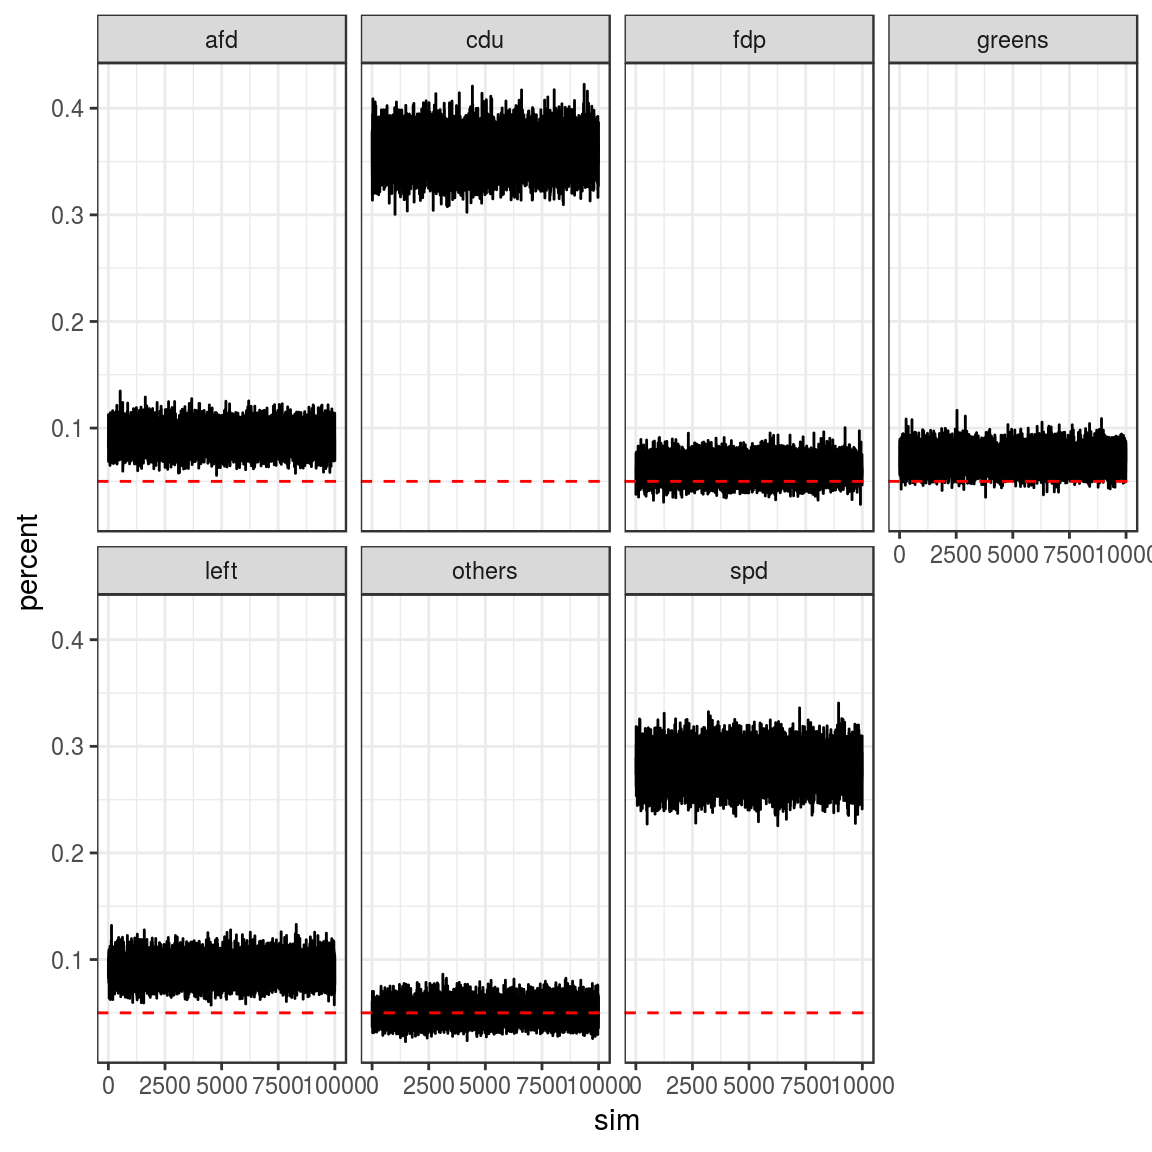
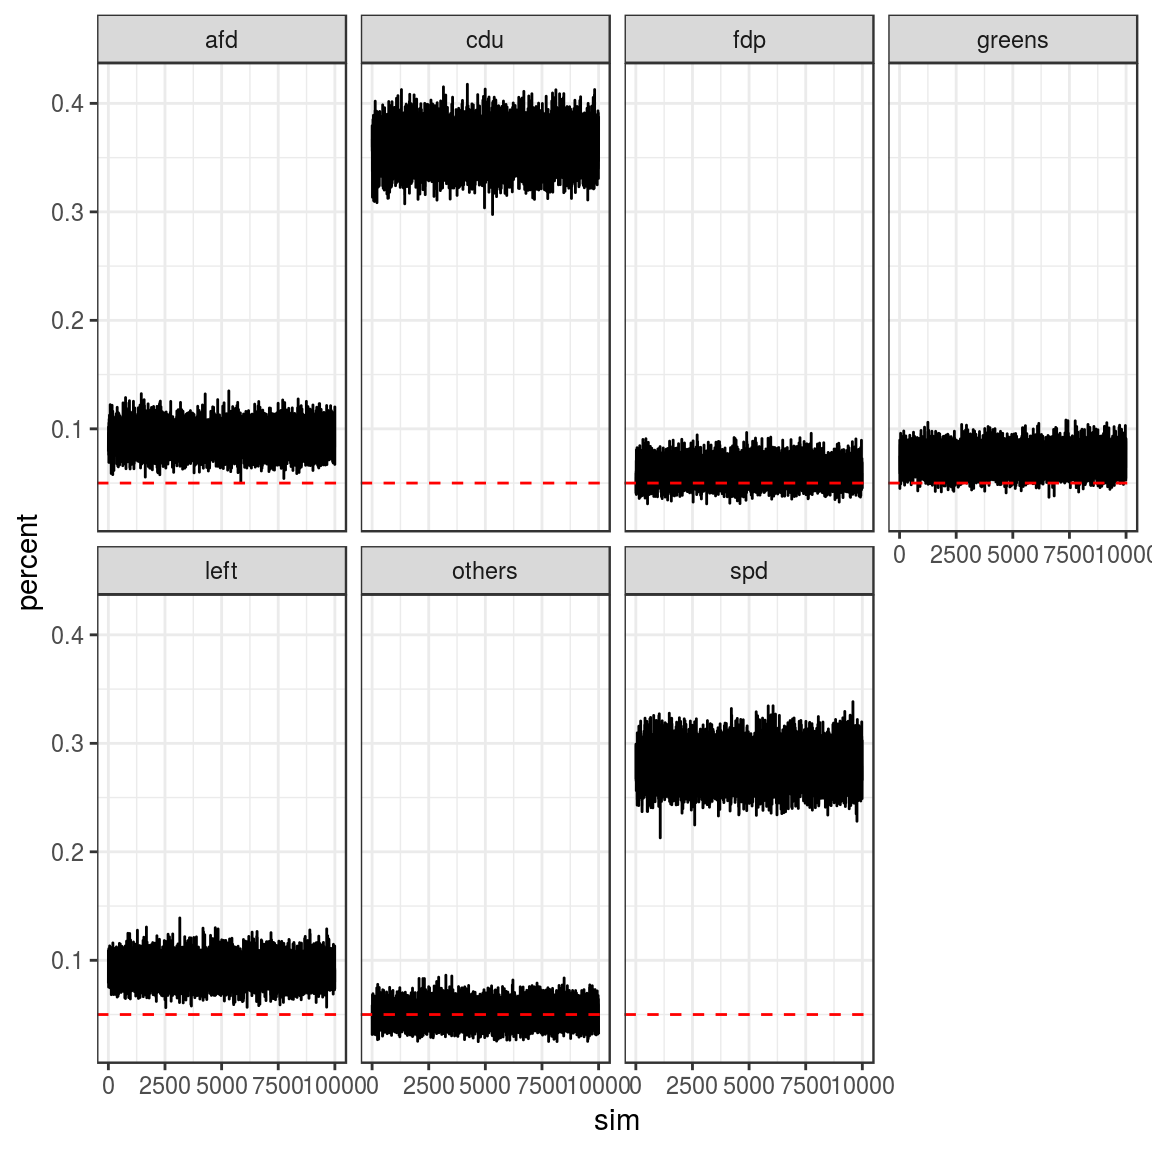
Update HP

diff --git a/docs/articles/workflow.html b/docs/articles/workflow.html
@@ -103,7 +103,7 @@
       <h1>Workflow</h1>
                         <h4 class="author">Andreas Bender</h4>
             
-            <h4 class="date">2018-08-21</h4>
+            <h4 class="date">2018-08-27</h4>
       
       <small class="dont-index">Source: <a href="https://github.com/adibender/coalitions//blob/master/vignettes/workflow.Rmd"><code>vignettes/workflow.Rmd</code></a></small>
       <div class="hidden name"><code>workflow.Rmd</code></div>
@@ -139,12 +139,12 @@
 <pre><code>## # A tibble: 6 x 9
 ##   date         cdu   spd greens   fdp  left   afd others respondents
 ##   &lt;date&gt;     &lt;dbl&gt; &lt;dbl&gt;  &lt;dbl&gt; &lt;dbl&gt; &lt;dbl&gt; &lt;dbl&gt;  &lt;dbl&gt;       &lt;dbl&gt;
-## 1 2018-08-18   30.   17.    15.    9.    9.   15.     5.       2942.
-## 2 2018-08-11   31.   17.    15.    8.   10.   14.     5.       2502.
-## 3 2018-08-04   30.   18.    15.    8.    9.   15.     5.       2478.
-## 4 2018-07-28   29.   18.    14.    9.   10.   15.     5.       2001.
-## 5 2018-07-21   30.   19.    12.    9.   10.   15.     5.       2476.
-## 6 2018-07-14   30.   18.    12.    9.   10.   16.     5.       2368.</code></pre>
+## 1 2018-08-25   30.   18.    15.    9.    9.   14.     5.       1891.
+## 2 2018-08-18   30.   17.    15.    9.    9.   15.     5.       2942.
+## 3 2018-08-11   31.   17.    15.    8.   10.   14.     5.       2502.
+## 4 2018-08-04   30.   18.    15.    8.    9.   15.     5.       2478.
+## 5 2018-07-28   29.   18.    14.    9.   10.   15.     5.       2001.
+## 6 2018-07-21   30.   19.    12.    9.   10.   15.     5.       2476.</code></pre>
 </div>
 <div id="collapse-survey-data" class="section level2">
 <h2 class="hasAnchor">
@@ -155,23 +155,23 @@
 <pre><code>## # A tibble: 6 x 5
 ##   date       start      end        respondents survey          
 ##   &lt;date&gt;     &lt;date&gt;     &lt;date&gt;           &lt;dbl&gt; &lt;list&gt;          
-## 1 2018-08-18 2018-08-09 2018-08-15       2942. &lt;tibble [7 × 3]&gt;
-## 2 2018-08-11 2018-08-02 2018-08-08       2502. &lt;tibble [7 × 3]&gt;
-## 3 2018-08-04 2018-07-26 2018-08-01       2478. &lt;tibble [7 × 3]&gt;
-## 4 2018-07-28 2018-07-19 2018-07-25       2001. &lt;tibble [7 × 3]&gt;
-## 5 2018-07-21 2018-07-12 2018-07-18       2476. &lt;tibble [7 × 3]&gt;
-## 6 2018-07-14 2018-07-05 2018-07-11       2368. &lt;tibble [7 × 3]&gt;</code></pre>
+## 1 2018-08-25 2018-08-16 2018-08-22       1891. &lt;tibble [7 × 3]&gt;
+## 2 2018-08-18 2018-08-09 2018-08-15       2942. &lt;tibble [7 × 3]&gt;
+## 3 2018-08-11 2018-08-02 2018-08-08       2502. &lt;tibble [7 × 3]&gt;
+## 4 2018-08-04 2018-07-26 2018-08-01       2478. &lt;tibble [7 × 3]&gt;
+## 5 2018-07-28 2018-07-19 2018-07-25       2001. &lt;tibble [7 × 3]&gt;
+## 6 2018-07-21 2018-07-12 2018-07-18       2476. &lt;tibble [7 × 3]&gt;</code></pre>
 <div class="sourceCode" id="cb6"><pre class="sourceCode r"><code class="sourceCode r"><a class="sourceLine" id="cb6-1" data-line-number="1">elong <span class="op">%&gt;%</span><span class="st"> </span><span class="kw"><a href="http://dplyr.tidyverse.org/reference/slice.html">slice</a></span>(<span class="dv">1</span>) <span class="op">%&gt;%</span><span class="st"> </span><span class="kw"><a href="http://dplyr.tidyverse.org/reference/select.html">select</a></span>(survey) <span class="op">%&gt;%</span><span class="st"> </span><span class="kw"><a href="http://www.rdocumentation.org/packages/tidyr/topics/unnest">unnest</a></span>()</a></code></pre></div>
 <pre><code>## # A tibble: 7 x 3
 ##   party  percent votes
 ##   &lt;chr&gt;    &lt;dbl&gt; &lt;dbl&gt;
-## 1 cdu        30.  883.
-## 2 spd        17.  500.
-## 3 greens     15.  441.
-## 4 fdp         9.  265.
-## 5 left        9.  265.
-## 6 afd        15.  441.
-## 7 others      5.  147.</code></pre>
+## 1 cdu        30. 567. 
+## 2 spd        18. 340. 
+## 3 greens     15. 284. 
+## 4 fdp         9. 170. 
+## 5 left        9. 170. 
+## 6 afd        14. 265. 
+## 7 others      5.  94.6</code></pre>
 </div>
 <div id="simulate-elections" class="section level2">
 <h2 class="hasAnchor">
@@ -185,27 +185,27 @@
 <pre><code>## # A tibble: 6 x 3
 ##   date       survey           draws            
 ##   &lt;date&gt;     &lt;list&gt;           &lt;list&gt;           
-## 1 2018-08-18 &lt;tibble [7 × 3]&gt; &lt;tibble [10 × 7]&gt;
-## 2 2018-08-11 &lt;tibble [7 × 3]&gt; &lt;tibble [10 × 7]&gt;
-## 3 2018-08-04 &lt;tibble [7 × 3]&gt; &lt;tibble [10 × 7]&gt;
-## 4 2018-07-28 &lt;tibble [7 × 3]&gt; &lt;tibble [10 × 7]&gt;
-## 5 2018-07-21 &lt;tibble [7 × 3]&gt; &lt;tibble [10 × 7]&gt;
-## 6 2018-07-14 &lt;tibble [7 × 3]&gt; &lt;tibble [10 × 7]&gt;</code></pre>
+## 1 2018-08-25 &lt;tibble [7 × 3]&gt; &lt;tibble [10 × 7]&gt;
+## 2 2018-08-18 &lt;tibble [7 × 3]&gt; &lt;tibble [10 × 7]&gt;
+## 3 2018-08-11 &lt;tibble [7 × 3]&gt; &lt;tibble [10 × 7]&gt;
+## 4 2018-08-04 &lt;tibble [7 × 3]&gt; &lt;tibble [10 × 7]&gt;
+## 5 2018-07-28 &lt;tibble [7 × 3]&gt; &lt;tibble [10 × 7]&gt;
+## 6 2018-07-21 &lt;tibble [7 × 3]&gt; &lt;tibble [10 × 7]&gt;</code></pre>
 <div class="sourceCode" id="cb10"><pre class="sourceCode r"><code class="sourceCode r"><a class="sourceLine" id="cb10-1" data-line-number="1"><span class="co"># each row is one election simulation</span></a>
 <a class="sourceLine" id="cb10-2" data-line-number="2">elong <span class="op">%&gt;%</span><span class="st"> </span><span class="kw"><a href="http://dplyr.tidyverse.org/reference/slice.html">slice</a></span>(<span class="dv">1</span>) <span class="op">%&gt;%</span><span class="st"> </span><span class="kw"><a href="http://dplyr.tidyverse.org/reference/select.html">select</a></span>(draws) <span class="op">%&gt;%</span><span class="st"> </span><span class="kw"><a href="http://www.rdocumentation.org/packages/tidyr/topics/unnest">unnest</a></span>()</a></code></pre></div>
 <pre><code>## # A tibble: 10 x 7
 ##      cdu   spd greens    fdp   left   afd others
 ##    &lt;dbl&gt; &lt;dbl&gt;  &lt;dbl&gt;  &lt;dbl&gt;  &lt;dbl&gt; &lt;dbl&gt;  &lt;dbl&gt;
-##  1 0.301 0.166  0.149 0.0874 0.0909 0.156 0.0495
-##  2 0.286 0.164  0.143 0.0814 0.0879 0.174 0.0647
-##  3 0.293 0.161  0.146 0.0939 0.0981 0.161 0.0471
-##  4 0.307 0.168  0.142 0.101  0.0871 0.151 0.0443
-##  5 0.302 0.172  0.150 0.0889 0.0815 0.157 0.0493
-##  6 0.309 0.156  0.152 0.0895 0.0924 0.152 0.0484
-##  7 0.306 0.179  0.151 0.0908 0.0770 0.144 0.0523
-##  8 0.312 0.168  0.142 0.0878 0.0850 0.154 0.0505
-##  9 0.310 0.174  0.154 0.0837 0.0883 0.155 0.0345
-## 10 0.297 0.177  0.139 0.0901 0.0888 0.154 0.0538</code></pre>
+##  1 0.292 0.178  0.145 0.0924 0.0877 0.155 0.0504
+##  2 0.299 0.183  0.154 0.0966 0.0811 0.130 0.0556
+##  3 0.319 0.179  0.157 0.0773 0.0816 0.132 0.0530
+##  4 0.291 0.195  0.153 0.0865 0.0925 0.132 0.0500
+##  5 0.316 0.177  0.137 0.0881 0.0862 0.143 0.0523
+##  6 0.288 0.171  0.154 0.104  0.0841 0.156 0.0438
+##  7 0.305 0.185  0.139 0.0972 0.0936 0.136 0.0449
+##  8 0.298 0.177  0.148 0.0947 0.0949 0.132 0.0558
+##  9 0.300 0.175  0.146 0.0970 0.0810 0.150 0.0514
+## 10 0.296 0.175  0.147 0.0838 0.0888 0.159 0.0510</code></pre>
 </div>
 <div id="calculate-seat-distribution" class="section level2">
 <h2 class="hasAnchor">
@@ -218,29 +218,29 @@
 <pre><code>## # A tibble: 6 x 4
 ##   date       survey           draws             seats            
 ##   &lt;date&gt;     &lt;list&gt;           &lt;list&gt;            &lt;list&gt;           
-## 1 2018-08-18 &lt;tibble [7 × 3]&gt; &lt;tibble [10 × 7]&gt; &lt;tibble [60 × 3]&gt;
-## 2 2018-08-11 &lt;tibble [7 × 3]&gt; &lt;tibble [10 × 7]&gt; &lt;tibble [60 × 3]&gt;
-## 3 2018-08-04 &lt;tibble [7 × 3]&gt; &lt;tibble [10 × 7]&gt; &lt;tibble [60 × 3]&gt;
-## 4 2018-07-28 &lt;tibble [7 × 3]&gt; &lt;tibble [10 × 7]&gt; &lt;tibble [60 × 3]&gt;
-## 5 2018-07-21 &lt;tibble [7 × 3]&gt; &lt;tibble [10 × 7]&gt; &lt;tibble [60 × 3]&gt;
-## 6 2018-07-14 &lt;tibble [7 × 3]&gt; &lt;tibble [10 × 7]&gt; &lt;tibble [60 × 3]&gt;</code></pre>
+## 1 2018-08-25 &lt;tibble [7 × 3]&gt; &lt;tibble [10 × 7]&gt; &lt;tibble [60 × 3]&gt;
+## 2 2018-08-18 &lt;tibble [7 × 3]&gt; &lt;tibble [10 × 7]&gt; &lt;tibble [60 × 3]&gt;
+## 3 2018-08-11 &lt;tibble [7 × 3]&gt; &lt;tibble [10 × 7]&gt; &lt;tibble [60 × 3]&gt;
+## 4 2018-08-04 &lt;tibble [7 × 3]&gt; &lt;tibble [10 × 7]&gt; &lt;tibble [60 × 3]&gt;
+## 5 2018-07-28 &lt;tibble [7 × 3]&gt; &lt;tibble [10 × 7]&gt; &lt;tibble [60 × 3]&gt;
+## 6 2018-07-21 &lt;tibble [7 × 3]&gt; &lt;tibble [10 × 7]&gt; &lt;tibble [60 × 3]&gt;</code></pre>
 <div class="sourceCode" id="cb14"><pre class="sourceCode r"><code class="sourceCode r"><a class="sourceLine" id="cb14-1" data-line-number="1">## sim column indicates simulated elections (rows in draws column)</a>
 <a class="sourceLine" id="cb14-2" data-line-number="2">elong <span class="op">%&gt;%</span><span class="st"> </span><span class="kw"><a href="http://dplyr.tidyverse.org/reference/slice.html">slice</a></span>(<span class="dv">1</span>) <span class="op">%&gt;%</span><span class="st"> </span><span class="kw"><a href="http://dplyr.tidyverse.org/reference/select.html">select</a></span>(seats) <span class="op">%&gt;%</span><span class="st"> </span><span class="kw"><a href="http://www.rdocumentation.org/packages/tidyr/topics/unnest">unnest</a></span>()</a></code></pre></div>
 <pre><code>## # A tibble: 60 x 3
 ##      sim party  seats
 ##    &lt;int&gt; &lt;chr&gt;  &lt;int&gt;
-##  1     1 cdu      189
-##  2     1 spd      105
-##  3     1 greens    94
-##  4     1 fdp       55
-##  5     1 left      57
+##  1     1 cdu      184
+##  2     1 spd      112
+##  3     1 greens    91
+##  4     1 fdp       58
+##  5     1 left      55
 ##  6     1 afd       98
-##  7     2 cdu      183
-##  8     2 spd      105
-##  9     2 greens    91
-## 10     2 fdp       52
+##  7     2 cdu      190
+##  8     2 spd      116
+##  9     2 greens    98
+## 10     2 fdp       61
 ## # ... with 50 more rows</code></pre>
-<p>In the above example, given the latest survey, CDU/CSU would have 189 seats in the first simulation, 183 seats in the second simulation, etc.</p>
+<p>In the above example, given the latest survey, CDU/CSU would have 184 seats in the first simulation, 190 seats in the second simulation, etc.</p>
 </div>
 <div id="calculate-majorities" class="section level2">
 <h2 class="hasAnchor">
@@ -265,12 +265,12 @@
 <pre><code>## # A tibble: 6 x 4
 ##   date       draws             seats             majorities       
 ##   &lt;date&gt;     &lt;list&gt;            &lt;list&gt;            &lt;list&gt;           
-## 1 2018-08-18 &lt;tibble [10 × 7]&gt; &lt;tibble [60 × 3]&gt; &lt;tibble [10 × 9]&gt;
-## 2 2018-08-11 &lt;tibble [10 × 7]&gt; &lt;tibble [60 × 3]&gt; &lt;tibble [10 × 9]&gt;
-## 3 2018-08-04 &lt;tibble [10 × 7]&gt; &lt;tibble [60 × 3]&gt; &lt;tibble [10 × 9]&gt;
-## 4 2018-07-28 &lt;tibble [10 × 7]&gt; &lt;tibble [60 × 3]&gt; &lt;tibble [10 × 9]&gt;
-## 5 2018-07-21 &lt;tibble [10 × 7]&gt; &lt;tibble [60 × 3]&gt; &lt;tibble [10 × 9]&gt;
-## 6 2018-07-14 &lt;tibble [10 × 7]&gt; &lt;tibble [60 × 3]&gt; &lt;tibble [10 × 9]&gt;</code></pre>
+## 1 2018-08-25 &lt;tibble [10 × 7]&gt; &lt;tibble [60 × 3]&gt; &lt;tibble [10 × 9]&gt;
+## 2 2018-08-18 &lt;tibble [10 × 7]&gt; &lt;tibble [60 × 3]&gt; &lt;tibble [10 × 9]&gt;
+## 3 2018-08-11 &lt;tibble [10 × 7]&gt; &lt;tibble [60 × 3]&gt; &lt;tibble [10 × 9]&gt;
+## 4 2018-08-04 &lt;tibble [10 × 7]&gt; &lt;tibble [60 × 3]&gt; &lt;tibble [10 × 9]&gt;
+## 5 2018-07-28 &lt;tibble [10 × 7]&gt; &lt;tibble [60 × 3]&gt; &lt;tibble [10 × 9]&gt;
+## 6 2018-07-21 &lt;tibble [10 × 7]&gt; &lt;tibble [60 × 3]&gt; &lt;tibble [10 × 9]&gt;</code></pre>
 <div class="sourceCode" id="cb18"><pre class="sourceCode r"><code class="sourceCode r"><a class="sourceLine" id="cb18-1" data-line-number="1"><span class="co"># The majorities table for each date will have 1 row per simulation</span></a>
 <a class="sourceLine" id="cb18-2" data-line-number="2"><span class="co"># and one column per coalition</span></a>
 <a class="sourceLine" id="cb18-3" data-line-number="3">elong <span class="op">%&gt;%</span><span class="st"> </span><span class="kw"><a href="http://dplyr.tidyverse.org/reference/slice.html">slice</a></span>(<span class="dv">1</span>) <span class="op">%&gt;%</span><span class="st"> </span><span class="kw"><a href="http://dplyr.tidyverse.org/reference/select.html">select</a></span>(majorities) <span class="op">%&gt;%</span><span class="st"> </span><span class="kw"><a href="http://www.rdocumentation.org/packages/tidyr/topics/unnest">unnest</a></span>()</a></code></pre></div>
@@ -279,7 +279,7 @@
 ##    &lt;lgl&gt; &lt;lgl&gt;   &lt;lgl&gt;      &lt;lgl&gt;          &lt;lgl&gt; &lt;lgl&gt;    &lt;lgl&gt;     
 ##  1 FALSE FALSE   FALSE      TRUE           FALSE FALSE    FALSE     
 ##  2 FALSE FALSE   FALSE      TRUE           FALSE FALSE    FALSE     
-##  3 FALSE FALSE   FALSE      TRUE           FALSE FALSE    FALSE     
+##  3 FALSE FALSE   TRUE       TRUE           FALSE FALSE    FALSE     
 ##  4 FALSE FALSE   FALSE      TRUE           FALSE FALSE    FALSE     
 ##  5 FALSE FALSE   FALSE      TRUE           FALSE FALSE    FALSE     
 ##  6 FALSE FALSE   FALSE      TRUE           FALSE FALSE    FALSE     
@@ -300,12 +300,12 @@
 <pre><code>## # A tibble: 6 x 3
 ##   date       majorities        probabilities   
 ##   &lt;date&gt;     &lt;list&gt;            &lt;list&gt;          
-## 1 2018-08-18 &lt;tibble [10 × 9]&gt; &lt;tibble [9 × 2]&gt;
-## 2 2018-08-11 &lt;tibble [10 × 9]&gt; &lt;tibble [9 × 2]&gt;
-## 3 2018-08-04 &lt;tibble [10 × 9]&gt; &lt;tibble [9 × 2]&gt;
-## 4 2018-07-28 &lt;tibble [10 × 9]&gt; &lt;tibble [9 × 2]&gt;
-## 5 2018-07-21 &lt;tibble [10 × 9]&gt; &lt;tibble [9 × 2]&gt;
-## 6 2018-07-14 &lt;tibble [10 × 9]&gt; &lt;tibble [9 × 2]&gt;</code></pre>
+## 1 2018-08-25 &lt;tibble [10 × 9]&gt; &lt;tibble [9 × 2]&gt;
+## 2 2018-08-18 &lt;tibble [10 × 9]&gt; &lt;tibble [9 × 2]&gt;
+## 3 2018-08-11 &lt;tibble [10 × 9]&gt; &lt;tibble [9 × 2]&gt;
+## 4 2018-08-04 &lt;tibble [10 × 9]&gt; &lt;tibble [9 × 2]&gt;
+## 5 2018-07-28 &lt;tibble [10 × 9]&gt; &lt;tibble [9 × 2]&gt;
+## 6 2018-07-21 &lt;tibble [10 × 9]&gt; &lt;tibble [9 × 2]&gt;</code></pre>
 <div class="sourceCode" id="cb22"><pre class="sourceCode r"><code class="sourceCode r"><a class="sourceLine" id="cb22-1" data-line-number="1"><span class="co"># one row per coalition</span></a>
 <a class="sourceLine" id="cb22-2" data-line-number="2">elong <span class="op">%&gt;%</span><span class="st"> </span><span class="kw"><a href="http://dplyr.tidyverse.org/reference/slice.html">slice</a></span>(<span class="dv">1</span>) <span class="op">%&gt;%</span><span class="st"> </span><span class="kw"><a href="http://dplyr.tidyverse.org/reference/select.html">select</a></span>(probabilities) <span class="op">%&gt;%</span><span class="st"> </span><span class="kw"><a href="http://www.rdocumentation.org/packages/tidyr/topics/unnest">unnest</a></span>()</a></code></pre></div>
 <pre><code>## # A tibble: 9 x 2
@@ -313,13 +313,13 @@
 ##   &lt;chr&gt;                 &lt;dbl&gt;
 ## 1 cdu                      0.
 ## 2 cdu_fdp                  0.
-## 3 cdu_greens               0.
-## 4 cdu_fdp_greens         100.
+## 3 cdu_greens              10.
+## 4 cdu_fdp_greens          90.
 ## 5 spd                      0.
 ## 6 left_spd                 0.
 ## 7 greens_spd               0.
 ## 8 greens_left_spd          0.
-## 9 cdu_spd                 40.</code></pre>
+## 9 cdu_spd                 60.</code></pre>
 </div>
 <div id="wrapper" class="section level2">
 <h2 class="hasAnchor">
@@ -330,16 +330,16 @@
 <pre><code>## # A tibble: 36 x 3
 ##    date       coalition       probability
 ##    &lt;date&gt;     &lt;chr&gt;                 &lt;dbl&gt;
-##  1 2018-08-18 cdu                      0.
-##  2 2018-08-18 cdu_fdp                  0.
-##  3 2018-08-18 cdu_fdp_greens         100.
-##  4 2018-08-18 spd                      0.
-##  5 2018-08-18 left_spd                 0.
-##  6 2018-08-18 greens_left_spd          0.
-##  7 2018-08-11 cdu                      0.
-##  8 2018-08-11 cdu_fdp                  0.
-##  9 2018-08-11 cdu_fdp_greens         100.
-## 10 2018-08-11 spd                      0.
+##  1 2018-08-25 cdu                      0.
+##  2 2018-08-25 cdu_fdp                  0.
+##  3 2018-08-25 cdu_fdp_greens         100.
+##  4 2018-08-25 spd                      0.
+##  5 2018-08-25 left_spd                 0.
+##  6 2018-08-25 greens_left_spd          0.
+##  7 2018-08-18 cdu                      0.
+##  8 2018-08-18 cdu_fdp                  0.
+##  9 2018-08-18 cdu_fdp_greens         100.
+## 10 2018-08-18 spd                      0.
 ## # ... with 26 more rows</code></pre>
 </div>
   </div>

diff --git a/docs/reference/scrape.html b/docs/reference/scrape.html
@@ -190,12 +190,8 @@ Scrape Lower Saxony regional polls" />
 
     <h2 class="hasAnchor" id="examples"><a class="anchor" href="#examples"></a>Examples</h2>
     <pre class="examples"><div class='input'><span class='fu'>library</span>(<span class='no'>coalitions</span>)
-<span class='fu'>library</span>(<span class='no'>dplyr</span>)</div><div class='output co'>#&gt; <span class='message'></span>
-#&gt; <span class='message'>Attaching package: ‘dplyr’</span></div><div class='output co'>#&gt; <span class='message'>The following objects are masked from ‘package:stats’:</span>
-#&gt; <span class='message'></span>
-#&gt; <span class='message'>    filter, lag</span></div><div class='output co'>#&gt; <span class='message'>The following objects are masked from ‘package:base’:</span>
-#&gt; <span class='message'></span>
-#&gt; <span class='message'>    intersect, setdiff, setequal, union</span></div><div class='input'><span class='co'># select a polling agency from .pollster_df that should be scraped ...</span>
+<span class='fu'>library</span>(<span class='no'>dplyr</span>)
+<span class='co'># select a polling agency from .pollster_df that should be scraped ...</span>
 <span class='kw pkg'>coalitions</span><span class='kw ns'>:::</span><span class='no'>.pollster_df</span></div><div class='output co'>#&gt; # A tibble: 7 x 2
 #&gt;   pollster   address                                             
 #&gt;   &lt;chr&gt;      &lt;chr&gt;                                               
@@ -210,11 +206,11 @@ Scrape Lower Saxony regional polls" />
 <span class='fu'>scrape_wahlrecht</span>(<span class='kw'>address</span> <span class='kw'>=</span> <span class='no'>address</span>) <span class='kw'>%&gt;%</span> <span class='fu'><a href='http://dplyr.tidyverse.org/reference/slice.html'>slice</a></span>(<span class='fl'>1</span>:<span class='fl'>5</span>)</div><div class='output co'>#&gt; <span class='warning'>Warning:  1 failed to parse.</span></div><div class='output co'>#&gt; <span class='warning'>Warning:  3 failed to parse.</span></div><div class='output co'>#&gt; # A tibble: 5 x 11
 #&gt;   date       start      end          cdu   spd greens   fdp  left   afd others
 #&gt;   &lt;date&gt;     &lt;date&gt;     &lt;date&gt;     &lt;dbl&gt; &lt;dbl&gt;  &lt;dbl&gt; &lt;dbl&gt; &lt;dbl&gt; &lt;dbl&gt;  &lt;dbl&gt;
-#&gt; 1 2018-08-18 2018-08-13 2018-08-17   30.   18.    15.    9.   10.   14.     4.
-#&gt; 2 2018-08-11 2018-08-06 2018-08-10   30.   18.    15.   10.    9.   14.     4.
-#&gt; 3 2018-08-04 2018-07-30 2018-08-03   31.   18.    13.   10.    9.   14.     5.
-#&gt; 4 2018-07-28 2018-07-23 2018-07-27   32.   18.    13.    9.    9.   14.     5.
-#&gt; 5 2018-07-21 2018-07-16 2018-07-20   31.   18.    13.    8.   10.   15.     5.
+#&gt; 1 2018-08-25 2018-08-20 2018-08-24   30.   18.    15.    8.   10.   14.     5.
+#&gt; 2 2018-08-18 2018-08-13 2018-08-17   30.   18.    15.    9.   10.   14.     4.
+#&gt; 3 2018-08-11 2018-08-06 2018-08-10   30.   18.    15.   10.    9.   14.     4.
+#&gt; 4 2018-08-04 2018-07-30 2018-08-03   31.   18.    13.   10.    9.   14.     5.
+#&gt; 5 2018-07-28 2018-07-23 2018-07-27   32.   18.    13.    9.    9.   14.     5.
 #&gt; # ... with 1 more variable: respondents &lt;dbl&gt;</div><div class='input'><span class='co'># Niedersachsen</span>
 <span class='fu'>scrape_ltw</span>() <span class='kw'>%&gt;%</span> <span class='fu'><a href='http://dplyr.tidyverse.org/reference/slice.html'>slice</a></span>(<span class='fl'>1</span>:<span class='fl'>5</span>)</div><div class='output co'>#&gt; # A tibble: 5 x 12
 #&gt;   pollster      date       start      end          cdu   spd greens   fdp  left

diff --git a/docs/reference/get_probabilities.html b/docs/reference/get_probabilities.html
@@ -217,8 +217,8 @@ results (or add an additional source of variation in general).</p></td>
 <span class='no'>probs</span> <span class='kw'>%&gt;%</span> <span class='kw pkg'>tidyr</span><span class='kw ns'>::</span><span class='fu'><a href='http://www.rdocumentation.org/packages/tidyr/topics/unnest'>unnest</a></span>()</div><div class='output co'>#&gt; # A tibble: 2 x 4
 #&gt;   pollster date       coalition       probability
 #&gt;   &lt;chr&gt;    &lt;date&gt;     &lt;chr&gt;                 &lt;dbl&gt;
-#&gt; 1 emnid    2017-09-02 cdu_fdp                 10.
-#&gt; 2 emnid    2017-09-02 greens_left_spd          0.</div></pre>
+#&gt; 1 emnid    2017-09-02 cdu_fdp                7.00
+#&gt; 2 emnid    2017-09-02 greens_left_spd        0.  </div></pre>
   </div>
   <div class="col-md-3 hidden-xs hidden-sm" id="sidebar">
     <h2>Contents</h2>

diff --git a/docs/reference/get_seats.html b/docs/reference/get_seats.html
@@ -216,16 +216,16 @@ explicitly are subsumed.</p></td>
 #&gt; # A tibble: 600 x 3
 #&gt;      sim party  seats
 #&gt;    &lt;int&gt; &lt;chr&gt;  &lt;int&gt;
-#&gt;  1     1 cdu      248
-#&gt;  2     1 spd      152
-#&gt;  3     1 greens    50
-#&gt;  4     1 fdp       46
-#&gt;  5     1 left      57
-#&gt;  6     1 afd       45
-#&gt;  7     2 cdu      236
-#&gt;  8     2 spd      151
-#&gt;  9     2 greens    46
-#&gt; 10     2 fdp       57
+#&gt;  1     1 cdu      236
+#&gt;  2     1 spd      153
+#&gt;  3     1 greens    52
+#&gt;  4     1 fdp       54
+#&gt;  5     1 left      56
+#&gt;  6     1 afd       47
+#&gt;  7     2 cdu      234
+#&gt;  8     2 spd      145
+#&gt;  9     2 greens    49
+#&gt; 10     2 fdp       56
 #&gt; # ... with 590 more rows
 #&gt; </div></pre>
   </div>

diff --git a/docs/articles/diagnostic.html b/docs/articles/diagnostic.html
@@ -103,7 +103,7 @@
       <h1>Diagnostic</h1>
                         <h4 class="author">Andreas Bender</h4>
             
-            <h4 class="date">2018-08-21</h4>
+            <h4 class="date">2018-08-27</h4>
       
       <small class="dont-index">Source: <a href="https://github.com/adibender/coalitions//blob/master/vignettes/diagnostic.Rmd"><code>vignettes/diagnostic.Rmd</code></a></small>
       <div class="hidden name"><code>diagnostic.Rmd</code></div>
@@ -154,10 +154,10 @@
 ##   &lt;chr&gt;      &lt;dbl&gt;
 ## 1 afd        1.00 
 ## 2 cdu        1.00 
-## 3 fdp        0.873
-## 4 greens     0.988
+## 3 fdp        0.865
+## 4 greens     0.989
 ## 5 left       1.00 
-## 6 others     0.491
+## 6 others     0.495
 ## 7 spd        1.00</code></pre>
   </div>
 

diff --git a/docs/reference/get_entryprobability.html b/docs/reference/get_entryprobability.html
@@ -189,7 +189,7 @@ to enter the parliament.</p></td>
                               <span class='kw'>entryProbs</span> <span class='kw'>=</span> <span class='kw pkg'>purrr</span><span class='kw ns'>::</span><span class='fu'><a href='http://www.rdocumentation.org/packages/purrr/topics/map'>map</a></span>(<span class='no'>draws</span>, <span class='no'>get_entryprobability</span>))
 <span class='no'>surveys</span>$<span class='no'>entryProbs</span></div><div class='output co'>#&gt; [[1]]
 #&gt;    cdu    spd greens    fdp   left    afd others 
-#&gt;    1.0    1.0    1.0    1.0    1.0    1.0    0.5 
+#&gt;   1.00   1.00   1.00   1.00   1.00   1.00   0.57 
 #&gt; </div></pre>
   </div>
   <div class="col-md-3 hidden-xs hidden-sm" id="sidebar">

diff --git a/docs/news/index.html b/docs/news/index.html
@@ -148,6 +148,13 @@
 <h1 class="page-header">
 <a href="#coalitions-0-6" class="anchor"></a>coalitions 0.6<small> Unreleased </small>
 </h1>
+<div id="coalitions-0-6-4" class="section level2">
+<h2 class="hasAnchor">
+<a href="#coalitions-0-6-4" class="anchor"></a>coalitions 0.6.4</h2>
+<ul>
+<li>Add scrapers for local German “Hessen” election</li>
+</ul>
+</div>
 <div id="coalitions-0-6-3" class="section level2">
 <h2 class="hasAnchor">
 <a href="#coalitions-0-6-3" class="anchor"></a>coalitions 0.6.3</h2>

diff --git a/docs/articles/pooling.html b/docs/articles/pooling.html
@@ -103,7 +103,7 @@
       <h1>Pooling</h1>
                         <h4 class="author">Alexander Bauer</h4>
             
-            <h4 class="date">2018-08-21</h4>
+            <h4 class="date">2018-08-27</h4>
       
       <small class="dont-index">Source: <a href="https://github.com/adibender/coalitions//blob/master/vignettes/pooling.Rmd"><code>vignettes/pooling.Rmd</code></a></small>
       <div class="hidden name"><code>pooling.Rmd</code></div>
